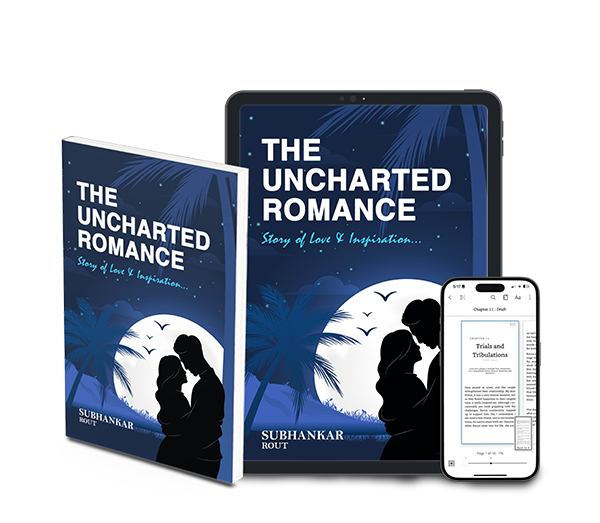
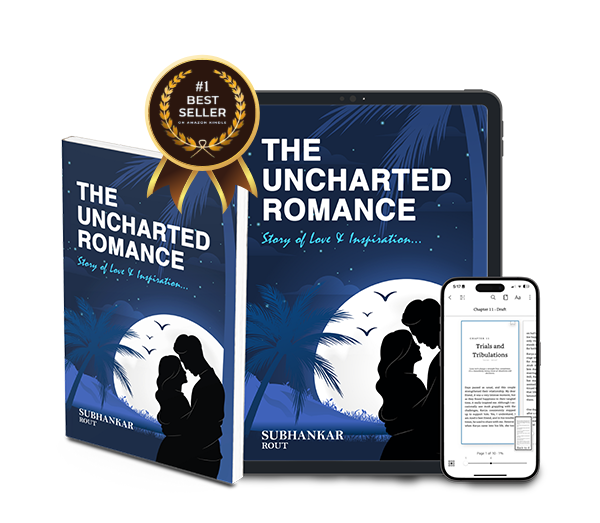
upload new best seller

Changed region(s): [[0.24, 0.0918, 0.45, 0.3977]]

diff --git a/index.html b/index.html
@@ -189,7 +189,7 @@
             <div class="col-xl-6 col-lg-6 col-md-6">
                <div class="tp-news-letter-section-box-two pt-135 pb-145 wow tpfadeUp" data-wow-duration=".5s" data-wow-delay=".7s">
                   <h5 class="tp-subtitle">Latest Release</h5>
-                  <h2 class="tp-title tp-white-text pb-10">Novel by Subhankar- Set to Release!</h2>
+                  <h2 class="tp-title tp-white-text pb-10">Explore the Bestseller Novel by Subhankar</h2>
                   <a class="tp-btn-border" href="books.html">Order Now </a>
                </div>
             </div>
